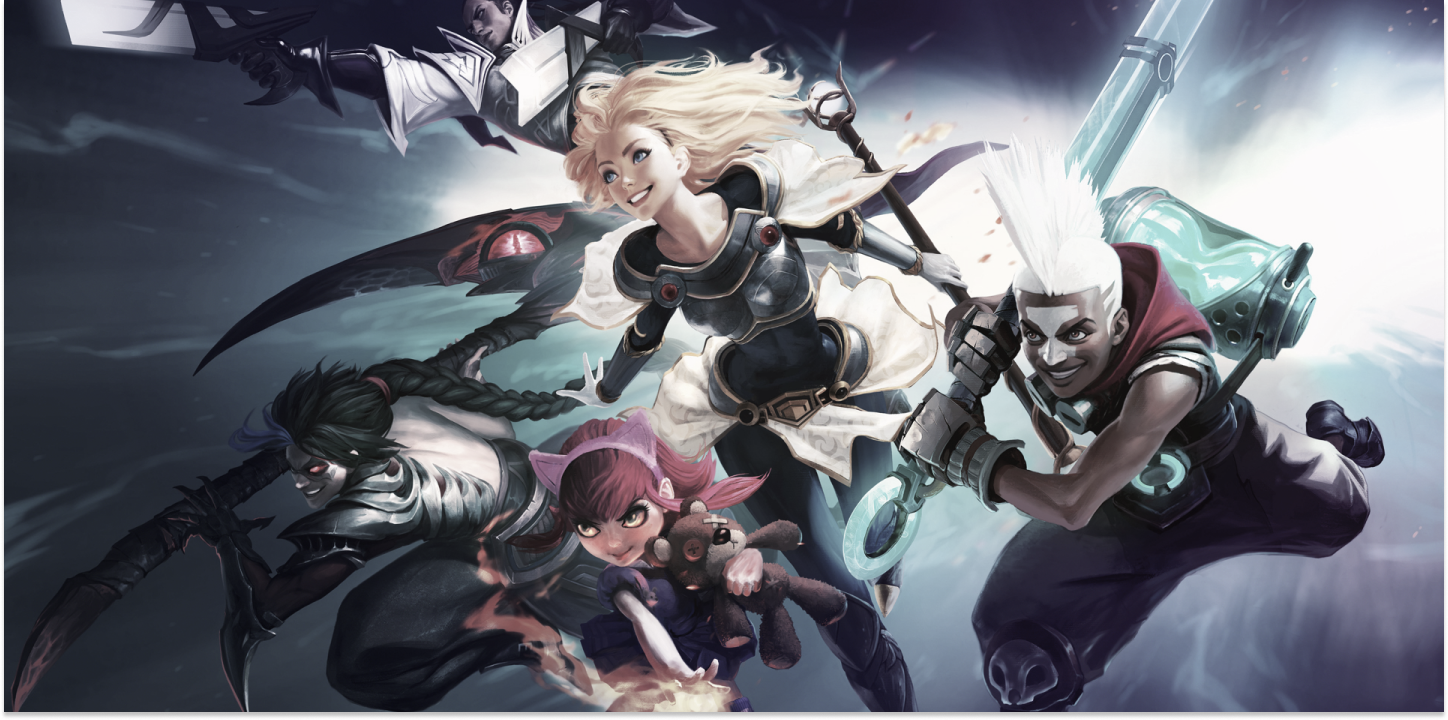
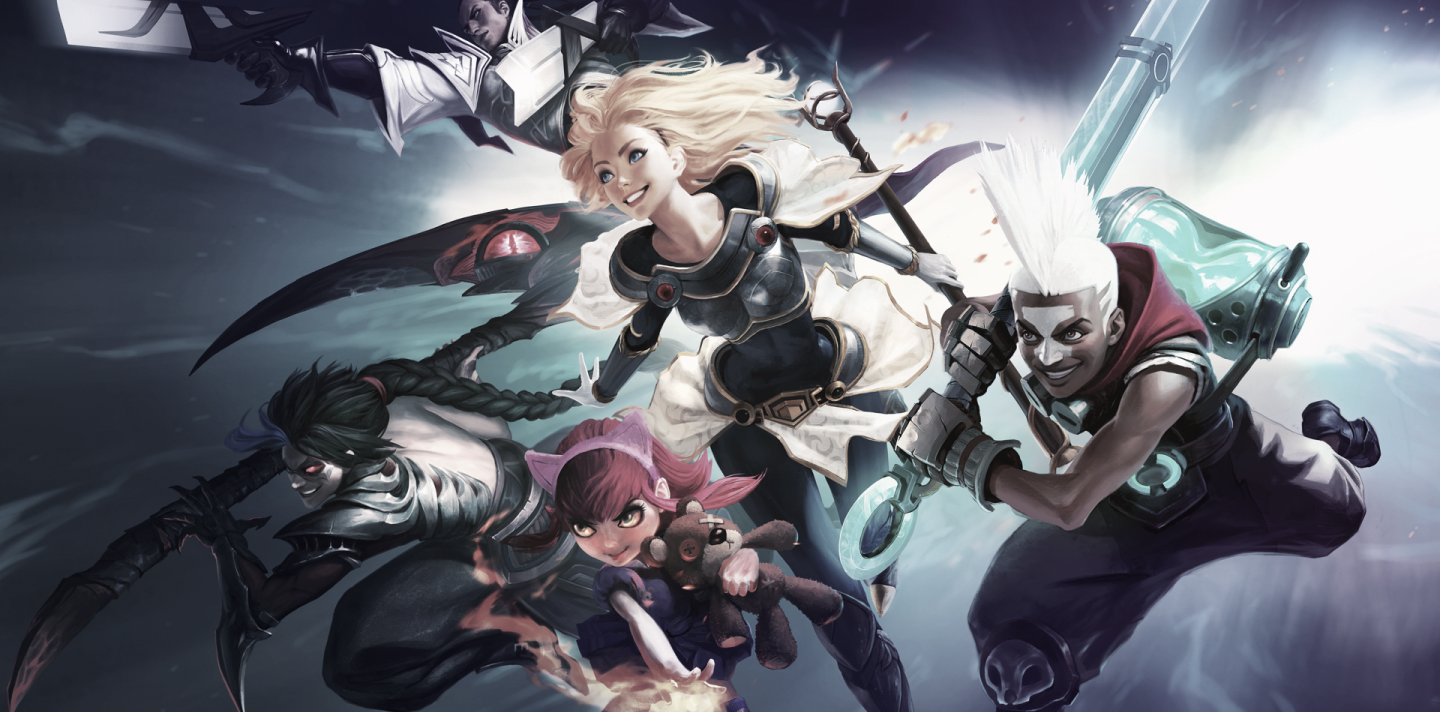
drop shadow and markdown

diff --git a/pages/index.js b/pages/index.js
@@ -8,6 +8,7 @@ import { makeStyles, withStyles, useTheme } from "@material-ui/core/styles";
 import useMediaQuery from "@material-ui/core/useMediaQuery";
 import { NextSeo } from "next-seo"
 import clsx from "clsx";
+import css from "../sass/shadow.scss";
 
 import Slider from "react-slick";
 import SliderWrapper from "../components/SlickSliderStyle"
@@ -58,33 +59,25 @@ const studioData = [
     image: "/images/studio-1.png",
     title: "THE ULTIMATE GOAL",
     subtitle: "OUR GOALS FOR THE PASSIONATE",
-    text: `Lorem ipsum dolor sit amet, nec case nusquam minimum no, ius id dolor verterem ullamcorper. Elitr regione no eos. Ullum populo vel no, viderer placerat accommodare ad pro. Mel quem illud instructior no, ex denique sapientem vix.
-
-    Est veri choro id. Per stet homero et, sed falli phaedrum elaboraret et, ius elit inani pericula ea. An legere noster his, pri eripuit expetenda dissentiunt an, vim justo prompta argumentum id. Et sed nisl elit constituto, pro mutat primis equidem et, per ne laoreet facilisi phaedrum.`,
+    text: "Lorem ipsum dolor sit amet, nec case nusquam minimum no, ius id dolor verterem ullamcorper. Elitr regione no eos. Ullum populo vel no, viderer placerat accommodare ad pro. Mel quem illud instructior no, ex denique sapientem vix.\n\nEst veri choro id. Per stet homero et, sed falli phaedrum elaboraret et, ius elit inani pericula ea. An legere noster his, pri eripuit expetenda dissentiunt an, vim justo prompta argumentum id. Et sed nisl elit constituto, pro mutat primis equidem et, per ne laoreet facilisi phaedrum.",
   },
   {
     image: "/images/studio-2.png",
     title: "THE WORKPLACE",
     subtitle: "WORKPLACE FOR THE COMFORT",
-    text: `Mollis aliquando necessitatibus te vel. Cum purto mundi copiosae in, ut saperet dolorem volutpat pro. Id sit aperiam vivendo, ea mea facer petentium. No facilis corpora honestatis eam, et ridens dolorum qui. Mel causae reprimique an, convenire explicari deterruisset.
-
-    Malis nominavi eloquentiam ea est, ius ei ancillae phaedrum vituperatoribus. Ut graece aliquando eos, ex fastidii verterem duo, sed cu sonet officiis periculis.`,
+    text: "Mollis aliquando necessitatibus te vel. Cum purto mundi copiosae in, ut saperet dolorem volutpat pro. Id sit aperiam vivendo, ea mea facer petentium. No facilis corpora honestatis eam, et ridens dolorum qui. Mel causae reprimique an, convenire explicari deterruisset.\n\nMalis nominavi eloquentiam ea est, ius ei ancillae phaedrum vituperatoribus. Ut graece aliquando eos, ex fastidii verterem duo, sed cu sonet officiis periculis.",
   },
   {
     image: "/images/studio-3.png",
     title: "THE FACILITIES",
     subtitle: "EVERYTHING THAT WE PROVIDE IS FOR USE",
-    text: `Te pri iudico facilisi, has eu utamur equidem alienum. Quem iudicabit imperdiet duo an, esse necessitatibus at sed, zril eruditi ornatus id usu. Sententiae theophrastus vix an, ei utamur partiendo scribentur qui. Ad nam vitae eloquentiam. Eu purto graeci vis, qui possim everti splendide ei, ut pri velit ponderum scribentur.
-
-    Lorem ipsum dolor sit amet, nec case nusquam minimum no, ius id dolor verterem ullamcorper. Mel quem illud instructior no, ex denique sapientem vix.`,
+    text: "Te pri iudico facilisi, has eu utamur equidem alienum. Quem iudicabit imperdiet duo an, esse necessitatibus at sed, zril eruditi ornatus id usu. Sententiae theophrastus vix an, ei utamur partiendo scribentur qui. Ad nam vitae eloquentiam. Eu purto graeci vis, qui possim everti splendide ei, ut pri velit ponderum scribentur.\n\nLorem ipsum dolor sit amet, nec case nusquam minimum no, ius id dolor verterem ullamcorper. Mel quem illud instructior no, ex denique sapientem vix.",
   },
   {
     image: "/images/studio-4.png",
     title: "THE COMMUNITY",
     subtitle: "ENCOURAGING COMPETITIVE MATES",
-    text: `Est veri choro id. Per stet homero et, sed falli phaedrum elaboraret et, ius elit inani pericula ea. An legere noster his, pri eripuit expetenda dissentiunt an, vim justo prompta argumentum id. Et sed nisl elit constituto, pro mutat primis equidem et, per ne laoreet facilisi phaedrum. Solet delectus dignissim sea ut, at mei nonumes deterruisset, eos habeo dicit populo at. Ut ius case fugit constituam, eum an graeco repudiare.
-
-    Mollis aliquando necessitatibus te vel. Cum purto mundi copiosae in, ut saperet dolorem volutpat pro.`,
+    text: "Est veri choro id. Per stet homero et, sed falli phaedrum elaboraret et, ius elit inani pericula ea. An legere noster his, pri eripuit expetenda dissentiunt an, vim justo prompta argumentum id. Et sed nisl elit constituto, pro mutat primis equidem et, per ne laoreet facilisi phaedrum. Solet delectus dignissim sea ut, at mei nonumes deterruisset, eos habeo dicit populo at. Ut ius case fugit constituam, eum an graeco repudiare.\n\nMollis aliquando necessitatibus te vel. Cum purto mundi copiosae in, ut saperet dolorem volutpat pro.",
   },
 ];
 
@@ -92,22 +85,22 @@ const featuredData = [
   {
     image: "/images/featured-1.png",
     title: "Podcast",
-    text: `Malis nominavi eloquentiam ea est, ius ei ancillae phaedrum vituperatoribus. Ut graece aliquando eos, ex fastidii verterem duo, sed cu sonet officiis periculis. No graecis denique constituam sit, eros disputando per no. Ius eu docendi pertinax. Ei pri inermis conclusionemque. Qui no tamquam fierent maluisset, vidisse moderatius quo ut. Ullum fabellas in ius.`,
+    text: "Malis nominavi eloquentiam ea est, ius ei ancillae phaedrum vituperatoribus. Ut graece aliquando eos, ex fastidii verterem duo, sed cu sonet officiis periculis. No graecis denique constituam sit, eros disputando per no. Ius eu docendi pertinax. Ei pri inermis conclusionemque. Qui no tamquam fierent maluisset, vidisse moderatius quo ut. Ullum fabellas in ius.",
   },
   {
     image: "/images/featured-2.png",
     title: "Trailer",
-    text: `Est veri choro id. Per stet homero et, sed falli phaedrum elaboraret et, ius elit inani pericula ea. An legere noster his, pri eripuit expetenda dissentiunt an, vim justo prompta argumentum id. Et sed nisl elit constituto, pro mutat primis equidem et, per ne laoreet facilisi phaedrum. Solet delectus dignissim sea ut, at mei nonumes deterruisset, eos habeo dicit populo at. `,
+    text: "Est veri choro id. Per stet homero et, sed falli phaedrum elaboraret et, ius elit inani pericula ea. An legere noster his, pri eripuit expetenda dissentiunt an, vim justo prompta argumentum id. Et sed nisl elit constituto, pro mutat primis equidem et, per ne laoreet facilisi phaedrum. Solet delectus dignissim sea ut, at mei nonumes deterruisset, eos habeo dicit populo at.",
   },
   {
     image: "/images/featured-3.png",
     title: "Released",
-    text: `Lorem ipsum dolor sit amet, nec case nusquam minimum no, ius id dolor verterem ullamcorper. Elitr regione no eos. Ullum populo vel no, viderer placerat accommodare ad pro. Mel quem illud instructior no, ex denique sapientem vix.`,
+    text: "Lorem ipsum dolor sit amet, nec case nusquam minimum no, ius id dolor verterem ullamcorper. Elitr regione no eos. Ullum populo vel no, viderer placerat accommodare ad pro. Mel quem illud instructior no, ex denique sapientem vix.",
   },
   {
     image: "/images/featured-4.png",
     title: "Game",
-    text: `Mollis aliquando necessitatibus te vel. Cum purto mundi copiosae in, ut saperet dolorem volutpat pro. Id sit aperiam vivendo, ea mea facer petentium. No facilis corpora honestatis eam, et ridens dolorum qui. Mel causae reprimique an, convenire explicari deterruisset ne vis. Cum an solet mollis deleniti, eius dignissim.`,
+    text: "Mollis aliquando necessitatibus te vel. Cum purto mundi copiosae in, ut saperet dolorem volutpat pro. Id sit aperiam vivendo, ea mea facer petentium. No facilis corpora honestatis eam, et ridens dolorum qui. Mel causae reprimique an, convenire explicari deterruisset ne vis. Cum an solet mollis deleniti, eius dignissim.",
   },
 ];
 
@@ -115,11 +108,12 @@ const Home = () => {
   const classes = useStyles();
   const theme = useTheme();
   const isMobile = useMediaQuery(theme.breakpoints.down("sm"));
+  const ReactMarkdown = require('react-markdown')
 
   return (
     <>
       <Layout>
-        <NextSeo title="Home" />
+        <NextSeo title="Home | Doublebox Studio" />
 
         <Grid container style={{marginBottom: 40}}>
           <Grid item xs={12}>
@@ -128,14 +122,14 @@ const Home = () => {
                 <MiniSliderWrapper>
                   <Slider {...settings}>
                     {homeImg.map((item, index) => (
-                      <img src={item.image} alt="" style={{ width: '100%', height: 'auto' }} />
+                      <img src={item.image} className={css.shadow} alt="" style={{ width: '100%', height: 'auto' }} />
                     ))}
                   </Slider>
                 </MiniSliderWrapper> :
                 <SliderWrapper>
                   <Slider {...settings}>
                     {homeImg.map((item, index) => (
-                      <img src={item.image} alt="" key={index} style={{ width: '100%', height: 'auto' }} />
+                      <img src={item.image} className={css.shadow} alt="" key={index} style={{ width: '100%', height: 'auto' }} />
                     ))}
                   </Slider>
                 </SliderWrapper>
@@ -165,7 +159,7 @@ const Home = () => {
                 N<span style={{color: "#C689B2"}}>E</span>WS
               </Typography>
 
-              <ButtonBase disableRipple style={{ width: '100%', height: '100%', marginBottom: isMobile ? 10 : 25 }}>
+              <ButtonBase disableRipple className={css.shadow} style={{ width: '100%', height: '100%', marginBottom: isMobile ? 10 : 25 }}>
                 <img
                   src="/images/news-1.png"
                   alt=""
@@ -177,7 +171,7 @@ const Home = () => {
               </ButtonBase>
 
               <Grid item xs={4} style={{ textAlign: 'left' }}>
-                <ButtonBase disableRipple style={{ width: isMobile ? '92%' : '95%', height: 'auto' }}>
+                <ButtonBase disableRipple className={css.shadow} style={{ width: isMobile ? '92%' : '95%', height: 'auto' }}>
                   <img
                     src="/images/news-2.png"
                     alt=""
@@ -190,7 +184,7 @@ const Home = () => {
               </Grid>
 
               <Grid item xs={4} style={{ textAlign: 'center' }}>
-                <ButtonBase disableRipple style={{ width: isMobile ? '92%' : '95%', height: 'auto' }}>
+                <ButtonBase disableRipple className={css.shadow} style={{ width: isMobile ? '92%' : '95%', height: 'auto' }}>
                   <img
                     src="/images/news-3.png"
                     alt=""
@@ -203,7 +197,7 @@ const Home = () => {
               </Grid>
 
               <Grid item xs={4} style={{ textAlign: 'right' }}>
-                <ButtonBase disableRipple style={{ width: isMobile ? '92%' : '95%', height: 'auto' }}>
+                <ButtonBase disableRipple className={css.shadow} style={{ width: isMobile ? '92%' : '95%', height: 'auto' }}>
                   <img
                     src="/images/news-4.png"
                     alt=""
@@ -271,9 +265,9 @@ const Home = () => {
                     <div style={{
                       marginRight: isMobile ? 20 : 30,
                       marginLeft: isMobile ? 20 : 30,
-                    }} key={index}>
+                    }} className={css.shadow} key={index}>
                       <ButtonBase disableRipple>
-                        <div style={{ width: isMobile ? 300 : 400, height: isMobile ? 600 : 694 }}>
+                        <div style={{ width: isMobile ? 300 : 400, height: isMobile ? 610 : 725 }}>
                           <img
                             src={item.image}
                             alt=""
@@ -312,7 +306,7 @@ const Home = () => {
                               textAlign: 'left',
                             }}
                           >
-                            {item.text}
+                            <ReactMarkdown source={item.text} />
                           </Typography>
                         </div>
                       </ButtonBase>
@@ -373,7 +367,7 @@ const Home = () => {
                     <div style={{
                       marginRight: isMobile ? 20 : 30,
                       marginLeft: isMobile ? 20 : 30,
-                    }} key={index}>
+                    }} className={css.shadow} key={index}>
                       <ButtonBase disableRipple>
                         <div style={{ width: isMobile ? 300 : 400, height: isMobile ? 585 : 785 }}>
                           <div className={clsx(

diff --git a/components/NavBar.js b/components/NavBar.js
@@ -14,6 +14,7 @@ import MenuIcon from "@material-ui/icons/Menu";
 import { makeStyles, useTheme } from "@material-ui/core/styles";
 import Pattern from "../public/images/pattern.svg";
 import useMediaQuery from "@material-ui/core/useMediaQuery";
+import css from "../sass/shadow.scss";
 
 const useStyles = makeStyles(theme => ({
   mainWrap: {
@@ -49,7 +50,7 @@ const NavBar = () => {
   
   return (
     <div className={clsx(
-      "shadow",
+      css.shadow,
       classes.mainWrap,
     )}>
       <Drawer
@@ -136,9 +137,6 @@ const NavBar = () => {
           position: fixed;
           display: flex;
           z-index: 1400;
-          filter: drop-shadow(0px 4px 4px rgba(0, 0, 0, 0.25));
-        }
-        .shadow {
           filter: drop-shadow(0px 4px 4px rgba(0, 0, 0, 0.25));
         }
         .hamburger-anim-forward {

diff --git a/components/MiniSlickSliderStyle.js b/components/MiniSlickSliderStyle.js
@@ -296,6 +296,7 @@ const MiniSliderWrapper = styled("div")`
     border-radius: 0px;
     position: relative;
     background: #221F1F;
+    filter: drop-shadow(0px 4px 4px rgba(0, 0, 0, 0.25));
   }
 
   .slick-dots li {
@@ -314,6 +315,7 @@ const MiniSliderWrapper = styled("div")`
     top: -2px;
     overflow: hidden;
     background: #D96522;
+    filter: drop-shadow(0px 4px 4px rgba(0, 0, 0, 0.25));
 
     .loading {
       height: 14px;

diff --git a/components/SlickSliderStyle.js b/components/SlickSliderStyle.js
@@ -296,6 +296,7 @@ const SliderWrapper = styled("div")`
     border-radius: 0px;
     position: relative;
     background: #221F1F;
+    filter: drop-shadow(0px 4px 4px rgba(0, 0, 0, 0.25));
   }
 
   .slick-dots li {
@@ -314,6 +315,7 @@ const SliderWrapper = styled("div")`
     top: 4px;
     overflow: hidden;
     background: #D96522;
+    filter: drop-shadow(0px 4px 4px rgba(0, 0, 0, 0.25));
 
     .loading {
       height: 14px;

diff --git a/components/Head.js b/components/Head.js
@@ -70,7 +70,7 @@ const HeadComponent = () => (
         <meta property="twitter:card" content="summary" />
         <meta property="twitter:image:src" content={brand.img}/>
         <meta property="og:url" content={brand.url} />
-        <meta property="og:title" content={brand.title} />
+        <meta property="og:title" content={brand.name} />
         <meta
             property="og:description"
             content={brand.desc}

diff --git a/sass/shadow.scss b/sass/shadow.scss
@@ -1,0 +1,3 @@
+.shadow {
+    filter: drop-shadow(0px 4px 4px rgba(0, 0, 0, 0.25));
+}
